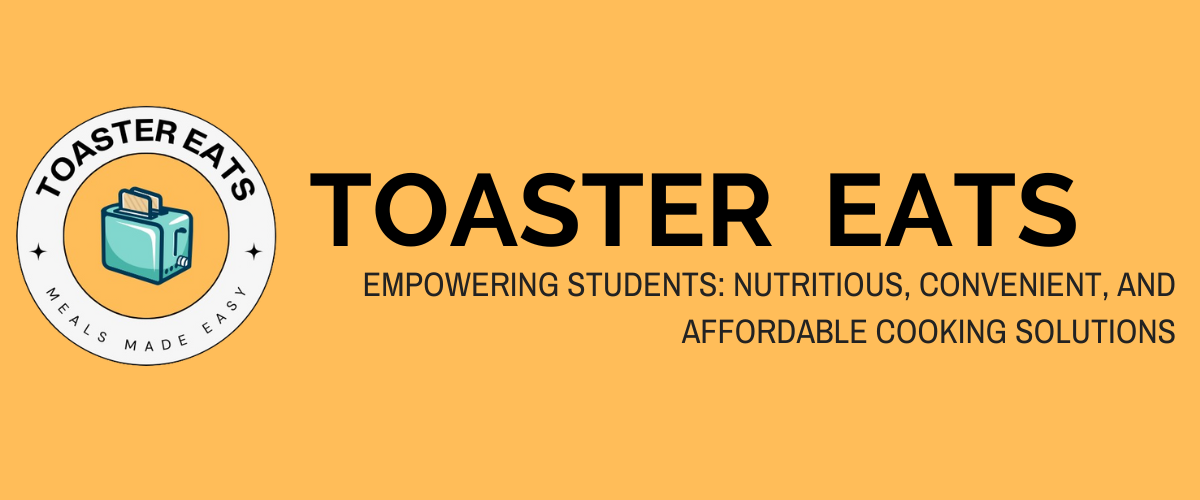
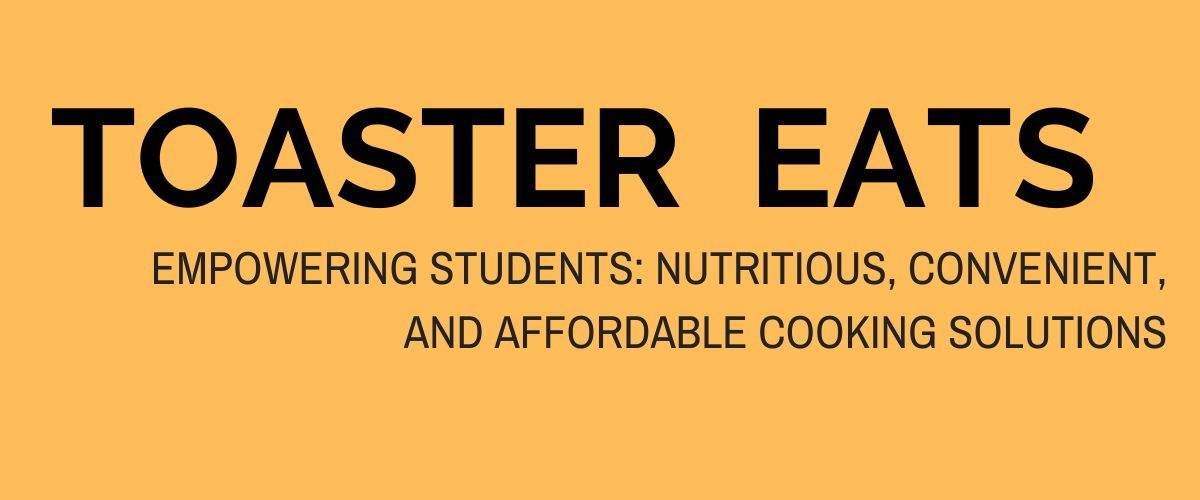
Updated header

Changed region(s): [[0.0, 0.21, 0.9867, 0.75], [0.3392, 0.63, 0.9867, 0.72]]

diff --git a/app/imports/ui/pages/Landing.jsx b/app/imports/ui/pages/Landing.jsx
@@ -6,7 +6,7 @@ const Landing = () => (
   <Container id="landing-page" fluid>
     <Row className="align-middle text-center header-background">
       <Col className="justify-content-center">
-        <Image src="/images/header_test.png" height="300px"/>
+        <Image src="/images/header_banner.png" height="270px" />
 
       </Col>
     </Row>
